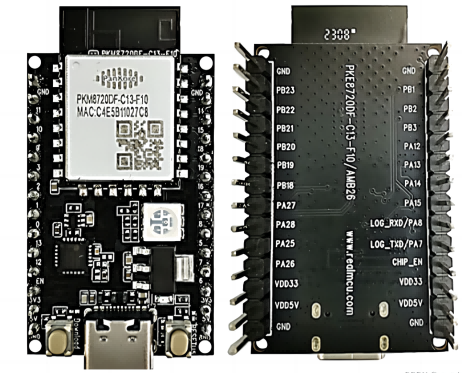
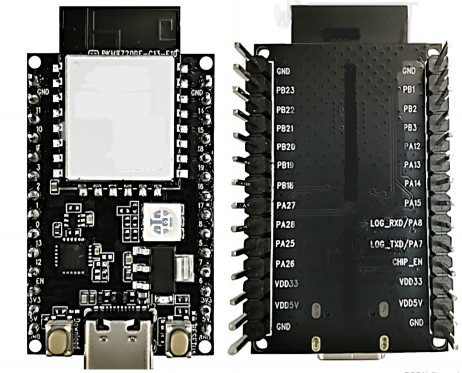
update

diff --git a/en/docs/blog/posts/matter_dac.md b/en/docs/blog/posts/matter_dac.md
@@ -1,0 +1,32 @@
+---
+date: 2024-07-04
+categories:
+  - matter
+---
+
+# Understanding DAC: What Exactly Is It?
+<!-- more -->
+
+In the world governed by the Matter protocol, device manufacturers are now focusing on deeper aspects of competition such as hardware design, interaction methods, content, collaborative capabilities, user experience, scenario applications, brand marketing, cloud services, and security. It can be said that Matter is not just a set of protocol standards but also a certification system where security and privacy are paramount. The security certification between Matter devices and ecosystems forms the foundation of this system.
+
+Feiteng Cloud has developed a comprehensive service system encompassing device testing, device certification, cloud certification, and large-scale production that Matter devices must undergo. Combined with Matter DAC services, Feiteng Cloud is committed to delivering more refined Matter all-in-one solutions to Matter device manufacturers and brand owners.
+![](../../assets/images/matter.jpg)
+
+## Understanding Matter DAC Device Attestation Certificates
+
+DAC stands for Device Attestation Certificate. It is an indispensable part of the process from design to mass production for Matter devices. Every mass-produced Matter device requires a DAC to comply with the requirements of the CSA Connected Home over IP Alliance.
+
+Matter adopts a security model based on Public Key Infrastructure (PKI). The role of DAC is to convince the Matter network that the accessing device is a certified and trusted device. By tracing the certificate chain of the device DAC, users can verify whether the purchased Matter device indeed originates from the manufacturer indicated on the device packaging, thus avoiding inclusion of insecure devices. This certificate mechanism ensures the security of the Matter network and addresses the pain points of inadequate link security in smart home systems. In the absence of DAC, device manufacturers, even if they pass Matter certification, cannot complete the mass production and shipment of Matter devices. Therefore, while DAC benefits the Matter ecosystem, it also increases production thresholds and costs for manufacturers to a certain extent.
+
+As a Matter solution provider, Feiteng Cloud deeply understands the importance of DAC in the mass production of Matter devices.
+
+Currently, Feiteng Cloud can provide complete DAC services for manufacturers in the testing and production stages, helping them address urgent needs. Furthermore, for manufacturers who have already chosen Feiteng Cloud's Matter all-in-one solutions, Feiteng Cloud can also provide supporting production tools to facilitate scaled production.
+
+Matter, as a unified application standard, already has over 500 companies as Matter members, bringing not only standardized execution standards but also significant business opportunities. It is projected that starting from 2023, the number of global Matter devices will experience exponential growth, thereby generating substantial demand for Matter DAC.
+
+## Accelerating the Deployment of Matter Smart Homes
+
+As an emerging standard in the smart home sector, Matter aims to enhance compatibility among smart home products from different manufacturers, different product categories, and different ecosystem platforms. Previously, achieving cross-platform operation for smart home devices required additional configuration, but now supporting Matter enables seamless cross-platform and cross-brand compatibility. The software-hardware decoupling brought by the Matter standard will revolutionize business models in the smart home industry.
+
+As a revolutionary innovation in smart homes, Matter was developed by engineers from many of the world's top companies and enjoys strong support from international giants like Apple, Google, and Amazon. The timing of Matter's market debut is perfect, as smart homes are now entering a period of widespread adoption.
+

diff --git a/zh/docs/blog/posts/matter_dac.md b/zh/docs/blog/posts/matter_dac.md
@@ -1,0 +1,31 @@
+---
+date: 2024-07-04
+categories:
+  - matter
+---
+
+# 了解DAC，它到底是什么？
+<!-- more -->
+
+在Matter协议制定的规则世界里，设备商的聚焦点已是更深层次的竞争，如硬件设计、交互方式、交互内容、协同能力、用户体验、场景应用、品牌营销、云服务与安全性等。可以说，Matter不仅仅是一套协议标准，也是一个认证体系，安全和隐私都非常重要，Matter设备与生态间的安全认证是该体系的基础。
+
+飞腾云已经将Matter设备必须经历的设备测试、设备认证、云认证、规模生产形成了完整的服务体系，结合Matter DAC服务，飞腾云致力于向Matter设备厂商和品牌商交付更加完善的Matter一站式解决方案。
+![](../../assets/images/matter.jpg)
+
+## 认识Matter DAC设备认证证书
+
+DAC 是 Device Attestation Certificate 的缩写，也就是设备认证证书。DAC 是 Matter 设备从设计到量产过程中不可或缺的一环，每一个量产的 Matter 设备都需要 DAC ，从而符合 CSA 连接标准联盟的认证要求。
+
+Matter 采用基于公钥基础设施 (PKI) 的安全模型，DAC 的作用在于要让 Matter 网络相信接入设备是一个经过了认证的可信任设备。通过追溯设备 DAC 证书的证书链，用户可以得知购买的 Matter 设备，是否的确来自于设备包装上的生产厂家，以免加入不安全的设备。这种证书机制，确保了Matter 网络的安全性，进一步解决了智能家居系统缺乏链路安全性的痛点。在 DAC 缺失的情况下，设备厂商即便通过了Matter认证，也无法完成Matter设备的量产出货。因此，DAC 虽然对 Matter 生态有利，但一定意义上提高了生产厂商的生产门槛和量产成本。
+
+飞腾云作为 Matter 方案商，深刻意识到 DAC 对 Matter 设备量产的重要性。
+
+目前，飞腾云可为处在测试、量产环节中的厂商提供完整的 DAC 服务，帮助厂商解决燃眉之急。同时，如果厂商已经选择了飞腾云的Matter一站式解决方案，飞腾云还可以为厂商提供配套的量产工具，助力规模化生产。
+
+Matter作为统一的应用标准，已经有500多家企业成为Matter会员，不仅带来规范的执行标准，也带来了巨大的商机。预计自2023年起，全球Matter设备数将呈现指数级增长，因此而带来的Matter DAC需求也将十分可观。
+
+## Matter智能家居落地加速
+
+Matter作为智能家居领域的新兴标准，旨在提高不同厂商智能家居产品之间的兼容性，将智能家居的不同品牌的设备、不同品类的设备、不同生态平台的设备，一起毫无阻碍的协同工作。以前需要通过额外的配置才能让智能家居设备实现跨平台工作，现在只需要支持Matter就可以实现跨平台、跨品牌的兼容。Matter标准带来的软硬解耦模式，将给智能家居产业带来业务模式的变革。
+
+作为智能家居的革命性创新，Matter可谓含着金汤匙出生，由全球诸多顶尖企业的工程师们联合操刀开发，和国际上知名企业苹果、谷歌、亚马逊等鼎力支持。Matter上市的时机恰到好处，因为，智能家居已经到了大规模普及的时期。

diff --git a/en/docs/blog/posts/matter_serve_renz.md b/en/docs/blog/posts/matter_serve_renz.md
@@ -1,0 +1,53 @@
+---
+date: 2024-07-02
+categories:
+  - matter
+---
+
+# What are WWAH, WWA, WWGH?
+
+These symbols (WWA, WWAH, WWGH) are used in the smart home market to indicate product compatibility and certification status with Apple HomeKit, Amazon Alexa, and Google Home platforms.
+<!-- more -->
+## Works with Apple HomeKit (WWAH)
+
+### Purpose and Functionality
+- **Compatibility Standard**: The WWA symbol signifies compatibility with Apple's HomeKit smart home platform.
+- **Remote Control**: Allows users to remotely control and manage supported smart devices via Siri or Apple devices.
+- **Automation and Scene Setup**: Supports creation of automation scenes based on time, location, or device status.
+
+### Application Process
+1. **Developer Certification**: Pass Apple's certification process to ensure compliance with HomeKit standards.
+2. **Hardware and Software Requirements**: Ensure the product meets Apple's hardware and software requirements.
+3. **Submission**: Submit the application on Apple's developer website, undergo testing, and obtain certification.
+
+---
+
+## Works with Amazon Alexa (WWA)
+
+### Purpose and Functionality
+- **Voice Control**: Enables users to control devices using the Alexa voice assistant.
+- **Third-party Integration**: Supports integration with other devices and services within the Alexa and Amazon ecosystem.
+- **Skill Development**: Allows developers to create custom Alexa skills for the device.
+
+### Application Process
+1. **Compatibility Testing**: Ensure the product meets Amazon's technical and compatibility standards.
+2. **Skill Development and Testing**: Develop and test Alexa skills using Amazon's developer portal.
+3. **Certification**: Submit the application, undergo testing, and obtain Works with Amazon Alexa certification upon approval.
+
+---
+
+## Works with Google Home (WWGH)
+
+### Purpose and Functionality
+- **Compatibility Standard**: The WWGH symbol indicates compatibility with Google's smart home ecosystem.
+- **Voice Operation**: Allows users to control devices using voice commands via Google Assistant.
+- **Home Automation**: Supports integration with other Google Home devices and services, enabling complex home automation and scene setups.
+
+### Application Process
+1. **Compatibility Testing**: Ensure the product meets Google's technical and security standards.
+2. **Development and Testing**: Develop and test device functionalities and integrations using Google's developer tools.
+3. **Certification Application**: Submit the application and obtain Works with Google Home certification upon approval.
+
+---
+
+These symbols not only represent product compatibility but also provide consumers with a straightforward way to identify and choose new devices that are compatible with their existing smart home setups and platforms. For manufacturers, obtaining these certifications can enhance their product's market competitiveness and credibility, attracting more consumers.

diff --git a/zh/docs/blog/posts/matter_doc3.md b/zh/docs/blog/posts/matter_doc3.md
@@ -1,0 +1,26 @@
+---
+date: 2024-07-06
+categories:
+  - matter
+---
+
+# 为什么科技巨头都如此热衷于 matter
+
+为什么科技巨头都如此热衷于 matter，我们要从 matter 能够改变什么来说起<!-- more -->，如果你购买到一个 matter 认证的产品，那么：
+
+- 这个产品可以加入任何支持 matter 的生态中，比如 HomeKit、Google Home、Alexa 或是其他支持 matter 的第三方生态，并且在各个生态中可以使用本生态的所有基础以及进阶功能。
+- 不需要购买对应生态的网关，不同的生态的网关可以管理其他生态的产品。HomePod、Apple TV、Nest 音箱甚至 eero 路由器均可以作为 matter 网关支持其他所有的 matter 设备。
+- 可以和你家中任何其他品牌的 matter 产品直接交换数据、执行操作或是作为自动化中的一部分，不同的通讯协议也不需要再经由「网关」的翻译，大大节约数据交换上的延迟开销。
+- 安全的本地运行机制，可以不需要接入任何厂商的云服务，在家中就可以完成控制、自动化与固件升级。
+- 使用 Wi-Fi 以太网以及 Thread 协议，其中 Thread 是最先进的 IoT 通讯协议，响应延迟极低。
+- 安全的认证入网过程，对于多生态，多管理员的家庭极其友好。
+
+这些实现的具体技术细节，我们在后面的文章中会详细向你解释，可以说，matter 从诞生之初就想要统一 IoT 市场并且解决过去所有智能家居用户的痛点，matter 也会让厂商从生态构筑这一垄断的恶性竞争转变为专注产品力与产品深度的良性竞争
+
+## matter 的结构
+对 matter 能够做到什么有了一个基础认识之后，我们来看看 matter 的构成：
+![](../../assets/images/matter/Matter构成.png)
+boxcnj9rLViy6XetoFxO9YxaRvb
+matter 在最上面代表了应用层，下方则是网络层以及物理层的各项通讯协议。可能对于不熟悉的朋友可能会比较迷惑，我们来逐一解释一下这些代表了什么。
+
+在最上层的 matter 可以被想象成一种语言：也就是智能家居互相的交流方式，只要使用 matter 这种语言的智能家居就可以顺畅的互相交流，而无需一个翻译官——「网关」的介入。TCP/UDP 则可以想象成不同形式的邮件和包裹，他们被不同的邮递方式，也就是最底层的各种传输技术，寄送给各个智能家居的门牌号 —— IPv6。更底层的各种网络技术则可以看作各种快递方式，快递方式可能有速度上的区别，但殊途同归的是把邮件投递到对应的门牌号。

diff --git a/zh/docs/blog/posts/matter_serve_renz.md b/zh/docs/blog/posts/matter_serve_renz.md
@@ -1,0 +1,54 @@
+---
+date: 2024-07-02
+
+categories:
+  - matter
+
+---
+# 什么是 WWAH、WWA、WWGH ？
+
+这些标志（WWA、WWAH、WWGH）是在智能家居市场中用来表示产品对苹果 HomeKit、亚马逊 Alexa、谷歌 Home 的兼容性和认证情况的符号。
+<!-- more -->
+## Works with Apple HomeKit (WWAH)
+
+### 作用和功能
+- **兼容性标准**：WWA 标志表示产品兼容苹果的 HomeKit 智能家居平台。
+- **远程控制**：允许用户通过 Siri 或 Apple 设备远程控制和管理支持的智能设备。
+- **自动化和场景设置**：支持创建基于时间、位置或设备状态的自动化场景。
+
+### 申请流程
+1. **开发者认证**：通过苹果的认证流程，确保产品符合 HomeKit 的标准。
+2. **硬件和软件要求**：确保产品满足苹果的硬件和软件要求。
+3. **申请提交**：在苹果的开发者网站提交申请，通过测试并获得认证。
+
+---
+
+## Works with Amazon Alexa (WWA)
+
+### 作用和功能
+- **语音控制**：允许用户使用 Alexa 语音助手控制设备。
+- **第三方集成**：支持与 Alexa 和亚马逊生态系统中其他设备和服务的集成。
+- **技能开发**：允许开发者为设备开发自定义的 Alexa 技能。
+
+### 申请流程
+1. **兼容性测试**：确保产品符合亚马逊的技术和兼容性标准。
+2. **开发和测试技能**：通过亚马逊的开发者门户开发和测试 Alexa 技能。
+3. **获得认证**：提交申请，通过测试后获得 Works with Amazon Alexa 认证。
+
+---
+
+## Works with Google Home (WWGH)
+
+### 作用和功能
+- **兼容性标准**：WWGH 标志表示产品兼容谷歌的智能家居生态系统。
+- **语音操作**：允许用户通过谷歌 Assistant 的语音命令控制设备。
+- **家庭自动化**：支持与其他 Google Home 设备和服务的集成，实现复杂的家庭自动化和场景设置。
+
+### 申请流程
+1. **兼容性测试**：确保产品符合谷歌的技术和安全标准。
+2. **开发和测试**：使用谷歌的开发者工具开发和测试设备的功能和集成。
+3. **申请认证**：提交申请，获得 Works with Google Home 认证。
+
+---
+
+这些标志不仅是产品兼容性的象征，更重要的是它们为消费者提供了一种简单而有效的方式来识别和选择与其现有智能家居设备和平台兼容的新设备。对于制造商来说，获得这些认证可以增加其产品的市场竞争力和可信度，吸引更多消费者。

diff --git a/en/docs/products/8720df/dev_board.md b/en/docs/products/8720df/dev_board.md
@@ -3,13 +3,12 @@
 
 ## 1 Product Overview
 
-The W5B03A-1720DF development board is based on the PKE8720DF-A00-F10 development board designed by Pankore for the PKM8720DF-A00-F10 module.
-
+The W5B03A-1720DF development board<!-- is based on the PKE8720DF-A00-F10 development board designed by Pankore for the PKM8720DF-A00-F10 module. -->
 All modules have accurate graphical graphics so that developers can easily develop and debug the modules.
-Standard pins on both sides also make operation easier when using the breadboard for development and debugging.The PKM8720DF-A00-F10 is a multi-radio microcontroller module. The open CPU architecture allows customers to develop advanced applications running on a dual-core 32-bit microcontroller.
+Standard pins on both sides also make operation easier when using the breadboard for development and debugging.<!--The PKM8720DF-A00-F10 -->it is a multi-radio microcontroller module. The open CPU architecture allows customers to develop advanced applications running on a dual-core 32-bit microcontroller.
 The radio provides support for Wi-Fi 802.11 a/b/g/n in the 2.4 GHz/5 GHz bands and BLE 5.0 communication.
 
-The rich peripherals and high performance make it ideal for smart homes, industrial automation, consumer electronics, etc. The block diagram of the PKM8720DF-A00-F10 module is shown in Figure 1.
+The rich peripherals and high performance make it ideal for smart homes, industrial automation, consumer electronics, etc. The block diagram of the <!--PKM8720DF-A00-F10--> module is shown in Figure 1.
 
 ![W5B03A-1720DF Development Board Block Diagram](/assets/images/8720DF/W5B03A-1720DF.png)
 

diff --git a/zh/docs/products/8720df/dev_board.md b/zh/docs/products/8720df/dev_board.md
@@ -3,13 +3,12 @@
 
 ## 1 产品概述
 
-W5B03A-1720DF开发板 是基于 PKE8720DF-A00-F10开发板由Pankore为PKM8720DF-A00-F10模块设计。
-
+W5B03A-1720DF开发板的<!--  是基于 PKE8720DF-A00-F10开发板由Pankore为PKM8720DF-A00-F10模块设计。 -->
 所有模块的图形图形都很精确，以便开发人员可以方便地开发和调试模块。
-当使用面包板进行开发和调试时，两侧的标准针头也可以使操作更容易。PKM8720DF-A00-F10是一个多无线电单片机模块。通过开放的CPU架构，客户可以开发运行在双核32位单片机上的高级应用程序。
+当使用面包板进行开发和调试时，两侧的标准针头也可以使操作更容易。<!--PKM8720DF-A00-F10-->是一个多无线电单片机模块。通过开放的CPU架构，客户可以开发运行在双核32位单片机上的高级应用程序。
 该无线电在2.4 GHz/5GHz频段和BLE 5.0通信中提供了对Wi-Fi 802.11 a/b/g/n的支持。
 
-丰富的外设和高性能使其成为智能家居、工业自动化、消费电子产品等的理想选择。PKM8720DF-A00-F10模块的方框图如图1所示。
+丰富的外设和高性能使其成为智能家居、工业自动化、消费电子产品等的理想选择。<!--PKM8720DF-A00-F10-->模块的方框图如图1所示。
 
 ![W5B03A-1720DF开发板产品框图](/assets/images/8720DF/W5B03A-1720DF.png)
 

diff --git a/en/docs/acquire_services/index.md b/en/docs/acquire_services/index.md
@@ -5,11 +5,11 @@ title: Consultation & Services
 
 # Consultation & Services
 
---8<-- "common/phaten_xmos_support_img.md"
+<!-- --8<-- "common/phaten_xmos_support_img.md"
 
 ## :material-notebook-edit-outline:Submit form
 
---8<-- "common/customer_form.md"
+--8<-- "common/customer_form.md" -->
 
 ## :fontawesome-solid-location-dot:Company Address
 Address: 602,Building 1,Edmonto Industrial Park, No.4 Industrial Zone,Shutianpu Community, Matian Street, Guangming District, Shenzhen, China
@@ -22,8 +22,10 @@ Address: 602,Building 1,Edmonto Industrial Park, No.4 Industrial Zone,Shutianpu 
 Angel Ms. Hu<br>
 email：angel@phaten.com
 
-## :technologist:WeChat Technical Support
-![Feiteng Cloud IOT WeChat Technical Support Group](/assets/images/illustrations/weicha_group_qr.png "Feiteng Cloud IOT WeChat Technical Support Group"){width=200}
+<!-- ## :technologist:WeChat Technical Support
+![Feiteng Cloud IOT WeChat Technical Support Group](/assets/images/illustrations/weicha_group_qr.png "Feiteng Cloud IOT WeChat Technical Support Group"){width=200} -->
 
 
+## :technologist:Discord Technical Support
 
+join link：https://discord.gg/y8sQ74ab3d

diff --git a/zh/docs/acquire_services/index.md b/zh/docs/acquire_services/index.md
@@ -5,14 +5,15 @@ title: 咨询及服务
 
 # 咨询及服务
 
---8<-- "common/phaten_xmos_support_img.md"
+<!-- --8<-- "common/phaten_xmos_support_img.md" -->
 
-## :material-notebook-edit-outline:提交表单
+<!-- ## :material-notebook-edit-outline:提交表单 -->
 
---8<-- "common/customer_form.md"
+<!-- --8<-- "common/customer_form.md" -->
 
 ## :fontawesome-solid-location-dot:公司地址
 地址：深圳市飞腾云科技有限公司 深圳市光明区松柏路7002号埃迪蒙托工业园A栋6楼
+
 Address: 602,Building 1,Edmonto Industrial Park, No.4 Industrial Zone,Shutianpu Community, Matian Street, Guangming District, Shenzhen, China
 
 
@@ -23,8 +24,10 @@ Address: 602,Building 1,Edmonto Industrial Park, No.4 Industrial Zone,Shutianpu 
 Angel胡小姐<br>
 邮箱：angel@phaten.com
 
-## :technologist:微信技术支持
+## :technologist:微信技术支持群
 ![飞腾云IOT微信技术支持群](/assets/images/illustrations/weicha_group_qr.png "飞腾云IOT微信技术支持群"){width=200}
 
+## :technologist:Discord  技术支持群
 
+加入链接：https://discord.gg/y8sQ74ab3d
 

diff --git a/zh/docs/download/8720df/8720df_datasheet.md b/zh/docs/download/8720df/8720df_datasheet.md
@@ -4,7 +4,7 @@
 
 |    模组规格书    |   版本   |   规格书   |
 |:-------|------| ------: |
-| W5B03A-1720DF-1624（PKM8720DF-C13-F10）模组规格书（PDF） |  V1.0 | [点击下载](/assets/download/8720df/30-W5B03A1720 W5B03A-1720DF-1624（PKM8720DF-C13-F10）模组规格书 821f0086bb3db7e10ce2f513baa2562f(1).pdf) |
+| W5B03A-1720DF-1624模组规格书（PDF） |  V1.0 | [点击下载](/assets/download/8720df/30-W5B03A1720W5B03A-1720DF-1624模组规格书821f0086bb3db7e10ce2f513baa2562f(1).pdf) |
 
 
 <!-- |    开发板规格书    |   版本   |      |
@@ -15,7 +15,7 @@
 
 |    规格书    |   版本   |   规格书   |
 |:-------|------| ------: |
-| WBR3DU-C模块规格书（PDF） |  V1.0 | [点击下载](/assets/download/8720cf/02.050.WBR3DUC0000 FTY-WI-R-279 WBR3DU-C模块规格书 42dcc1ba7e6b01c889783654405650a0.pdf) |
+| WBR3DU-C模块规格书（PDF） |  V1.0 | [点击下载](/assets/download/8720cf/02.050.WBR3DUC0000FTY-WI-R-279WBR3DU-C模块规格书42dcc1ba7e6b01c889783654405650a0.pdf) |
 
 ## ESP8684
 

diff --git a/en/docs/download/8720df/8720df_datasheet.md b/en/docs/download/8720df/8720df_datasheet.md
@@ -4,7 +4,7 @@
 
 |    Module Specification    |   Version   |   Document   |
 |:-------|------| ------: |
-| W5B03A-1720DF-1624 (PKM8720DF-C13-F10) Module Specification (PDF) |  V1.0 | [Download](/assets/download/8720df/30-W5B03A1720 W5B03A-1720DF-1624(PKM8720DF-C13-F10)Module Specification 821f0086bb3db7e10ce2f513baa2562f(1).pdf) |
+| W5B03A-1720DF-1624Module Specification (PDF) |  V1.0 | [Download](/assets/download/8720df/30-W5B03A1720W5B03A-1720DF-1624模组规格书821f0086bb3db7e10ce2f513baa2562f(1).pdf) |
 
 
 <!-- |    Development Board Specification    |   Version   |      |

diff --git a/en/docs/products/tasmota/tasmota-matter.md b/en/docs/products/tasmota/tasmota-matter.md
@@ -14,9 +14,9 @@ Comprehensive security mechanisms: secure boot based on RSA-3072 algorithm, flas
 Rich communication interfaces and GPIO pins, supporting various scenarios and complex applications.
 RF certification and software protocol certification.
 
-Module Image:
+<!-- Module Image:
 
-![esp32c3 image](/assets/images/matter/8685-03.png)
+![esp32c3 image](/assets/images/matter/8685-03.png) -->
 
 # II. Product Features
 
